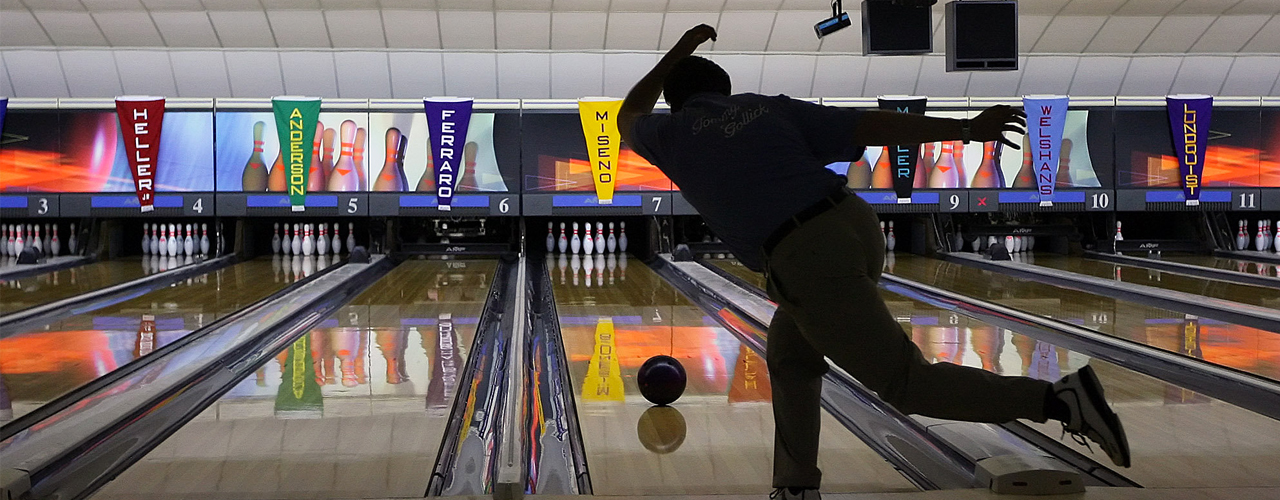
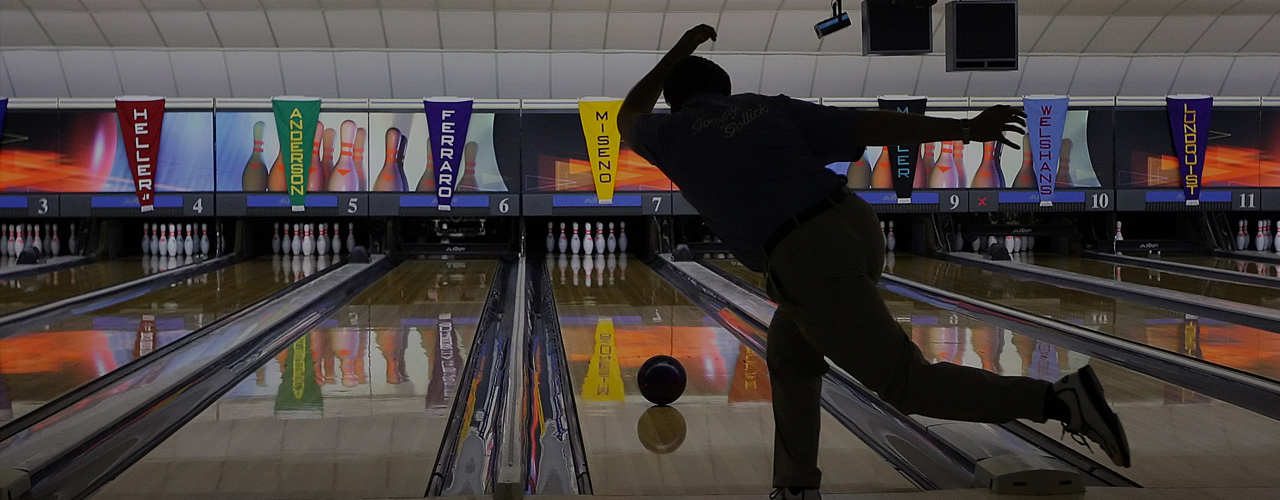
Modal progress - removed slide effect

diff --git a/index.html b/index.html
@@ -81,8 +81,8 @@
                 </a>
                 
                 <!-- Login button -->
-                <a class="button2D clear navbar-right" target="_blank">
-                    <span>Login</span>
+                <a class="button2D clear navbar-right" data-toggle="modal" data-target="#login-modal">
+                    <span>Log in</span>
                 </a>
                 
                 <!-- Help button -->
@@ -133,6 +133,32 @@
             </div>
         </div>
 
+        <!-- Small modal -->
+        <button type="button" class="btn btn-primary" data-toggle="modal" data-target="#login-modal">Small modal</button>
+
+        <div id="login-modal" class="modal fade" tabindex="-1" role="dialog">
+            <div class="modal-dialog modal-sm">
+                <div class="modal-content">
+                    <div class="modal-header">
+                        <button type="button" class="close" data-dismiss="modal" aria-label="Close"><span aria-hidden="true">&times;</span></button>
+                        New Account
+                    </div>
+                    <div class="modal-body">
+                        <div class="form-group">
+                            <input type="email" class="form-control" id="exampleInputEmail1" placeholder="Email address">
+                        </div>
+                        <div class="form-group">
+                            <input type="password" class="form-control" placeholder="Password">
+                        </div>
+                        <div class="button3D light-blue">Sign up</div>
+                        <div class="login-modal-footer">
+                            Already a member?
+                            <a>Log in.</a>
+                        </div>
+                    </div>
+                </div>
+            </div>
+        </div>
         
         <!-- Libraries/Scripts -->
         <!-- jQuery -->

diff --git a/css/main.css b/css/main.css
@@ -21,8 +21,7 @@ body,
     margin-bottom: 1.75em;
 }
 .carousel-caption a {
-    padding-left: 20px;
-    padding-right: 20px;
+    padding: 10px 25px 10px 25px;
 }
 
 /* overlay */
@@ -55,4 +54,34 @@ body,
     background: none;
     /*background: rgba(0, 0, 0, 0.25);*/
     border: none; /* get rid of border thing on bottom */
+}
+
+/**
+ * Here we override the existing animation of Bootstrap's modals
+ * We will remove the slide effect and just keep a fade in/out animation
+ */
+.modal.fade .modal-dialog {
+    -webkit-transform: translate(0, 0%);
+    -ms-transform: translate(0, 0%);
+    transform: translate(0, 0%);
+    -webkit-transition: -webkit-transform 0.3s ease-out;
+    -moz-transition: -moz-transform 0.3s ease-out;
+    -o-transition: -o-transform 0.3s ease-out;
+    transition: transform 0.3s ease-out;
+    top: 50%;
+}
+
+/* Vertically align modal dialog in the middle of screen */
+@media screen and (min-width: 768px) { 
+  .modal:before {
+    display: inline-block;
+    vertical-align: middle;
+    content: " ";
+    height: 100%;
+  }
+}
+.modal-dialog {
+  display: inline-block;
+  text-align: center;
+  vertical-align: middle;
 }
